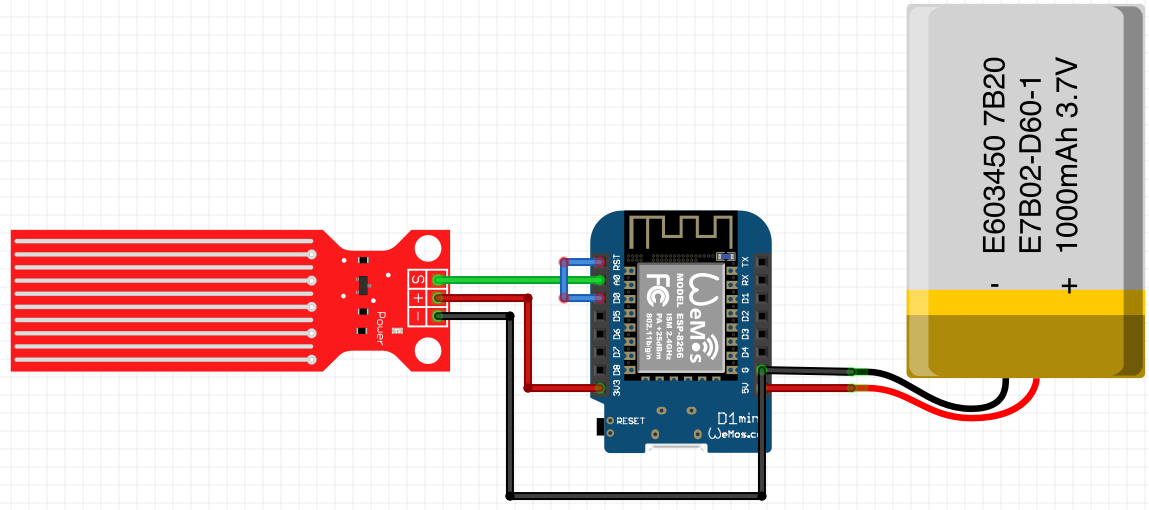
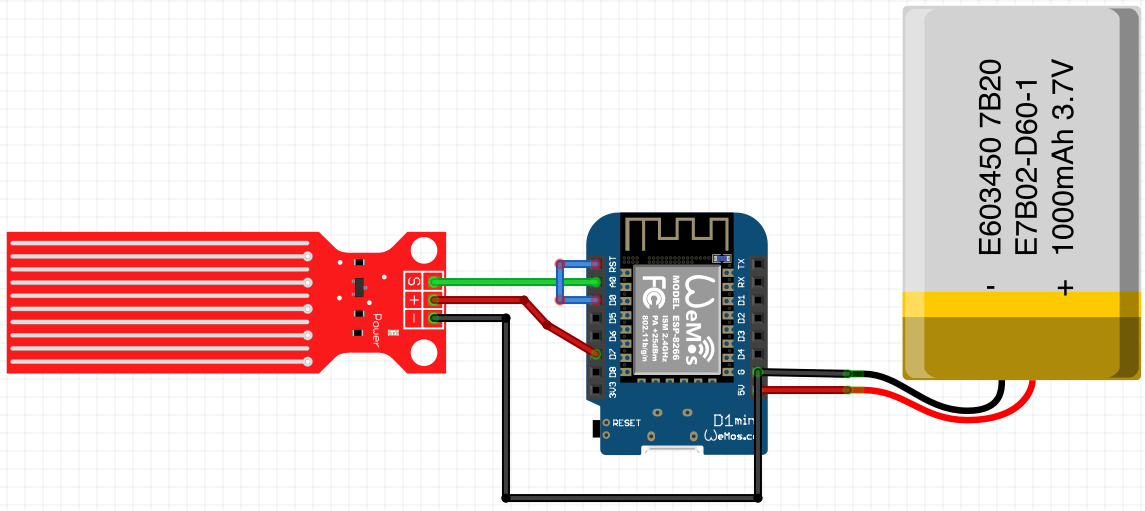
update documentation

diff --git a/src/main.cpp b/src/main.cpp
@@ -40,6 +40,25 @@ void tick()
     digitalWrite(LED_BUILTIN, !state);     // set pin to the opposite state
 }
 
+/**
+ * This is a function used to get the reading
+ * @param level
+ * @return
+ */
+int readSensor()
+{
+    // Turn the sensor ON
+	digitalWrite(sensorPower, HIGH);
+	delay(10);
+    // Perform the reading
+	sensorData = analogRead(sensorPin);
+
+    // Set to LOW to turn the sensor OFF
+	digitalWrite(sensorPower, LOW);
+
+  return sensorData;
+}
+
 void connectToWiFi()
 {
     int _try = 0;
@@ -94,25 +113,6 @@ void connectToHass()
     }
 }
 
-/**
- * This is a function used to get the reading
- * @param level
- * @return
- */
-int readSensor()
-{
-    // Turn the sensor ON
-	digitalWrite(sensorPower, HIGH);
-	delay(10);
-    // Perform the reading
-	sensorData = analogRead(sensorPin);
-
-    // Set to LOW to turn the sensor OFF
-	digitalWrite(sensorPower, LOW);
-
-  return sensorData;
-}
-
 void publishAlarmToHass(int waterLevel)
 {
     // publish the reading to Hass through MQTT
@@ -122,6 +122,7 @@ void publishAlarmToHass(int waterLevel)
         Serial.println("Alarm sent to Hass!");
     }
 }
+
 void setup()
 {
     if (DEBUG == true) {

diff --git a/README.md b/README.md
@@ -1,23 +1,46 @@
 # Water Leakage Sensor For Home Assistant (Or any MQTT based system)
 
-This repo accompanies the "Connected Weather Station" YouTube series. it contains the code, library, diagrams, and more information that I promised in the videos.
+About
+=====
+This article accompanies the "DIY Water Leakage Sensor" YouTube series. it contains the code, libraries, diagrams, 3D print files and more information that I promised in the videos: [**DIY Water Leakage Sensor For Home Assistant**](https://youtu.be/vL6TKYhjwQc)
 
-[**Video: Building an IoT Weather Station with Arduino, DHT11, and LCD Screen**](https://youtu.be/vL6TKYhjwQc)
-This episode shows you how to use the [DHT11](https://amzn.to/2Qs9fcV) temperature and humidity sensors with the [Arduino Uno](https://amzn.to/2RnHhPY) board to build a weather station that displays current temperature and humidity on an [LCD](https://amzn.to/2FzJdT6) screen.
+BUY VS BUILD
+========
+You can always go ahead and buy a ready to use a solution like this [CONNECTIFY Smart Water Leakage Sensor](https://www.amazon.ca/gp/product/B07TDCTQDN/ref=ppx_yo_dt_b_search_asin_title?ie=UTF8&psc=1) but these devices usually would only work with their respective apps, and some of them would require you to pay extra in order to receive push notifications. Now, this article and its video provide a step-by-step guide and links to everything you need to build the same device for **3x cheaper** than the cheapest option available.
 
+In addition to detecting water leakage and sending notifications. This device:
+* Goes to deep sleep and only wakes up every 30sec (configurable) to save energy
+* When water is detected, only then, the connection to WiFi is made, again, to save energy
+* Has a removable LiPo battery for easy of charge
+* Clever wiring of the water sensor to extend it's life expectancy (more details in the wiring section)
+* Sends notifications (and any type of data) to an MQTT topic, enlarging the possibilities of what you can do with the data
+
+In my case, I will be sending the notifications to my [Home Assistant](https://www.home-assistant.io/) setup in order to trigger a pre-defined automation that:
+* Pushes actionable notifications to our phone devices through [Home Assistant companion apps](https://companion.home-assistant.io/)
+* Converts notification alarm to a text (Alexa TTS capabilities) and play it through the Amazon Echo devices around the house
+* And just in case we managed to miss these, it turns the kitchen LED light to RED informing us of an emergency
+* Repeats every 5min until someone explicitly acknowledged the issue.
+
+The beauty of this is I can decide to trigger any type of notifications in the future such as playing an alarm sound or sending SMS notifications...
+
+So without further ado, let's start with a list of all hardware components, Apps and Libraries I've used in this project:
 
 ⚡ COMPONENTS AND SUPPLIES
---------------------------
+=====
 
-<img align="right" src="https://images-na.ssl-images-amazon.com/images/I/61sU-gLZncL._AC_SL1001_.jpg" style="max-width:100%;" height="400">
+<img align="right" src="https://images-na.ssl-images-amazon.com/images/I/418BpihzO8L.jpg" style="max-width:100%;" height="400">
 
-*   [WEMOS D1 R2 (ESP8266 ESP-12F)](https://www.amazon.com/IZOKEE-NodeMcu-Internet-Development-Compatible/dp/B076F52NQD/ref=sr_1_5?crid=1DNDEPDE0UUY8&dchild=1&keywords=esp12f&sprefix=esp12%2Caps%2C170&sr=8-5)
-*   [Water Level Sensor](https://www.amazon.com/Sensor-Module-Detection-Surface-Arduino%EF%BC%8810pcs%EF%BC%89/dp/B07THDH7Y4/ref=sr_1_7?dchild=1&keywords=6+Pack+Water+Level+Sensor%2C+Droplet+Depth+Detection+Sensor+for+Arduino&sr=8-7)
-*   [100pcs Double Sided PCB Board Kit](https://www.amazon.com/Smraza-Soldering-Electronic-Compatible-Prototype/dp/B07NM68FXK/ref=sr_1_2?dchild=1&keywords=smraza+100pcs+pcb+board&sr=8-2)
+*   [WEMOS D1 R2 (ESP8266 ESP-12F)](https://www.amazon.com/IZOKEE-NodeMcu-Internet-Development-Compatible/dp/B076F52NQD/)
+*   [Water Level Sensor](https://www.amazon.com/Sensor-Module-Detection-Surface-Arduino%EF%BC%8810pcs%EF%BC%89/dp/B07THDH7Y4/)
+*   [5 LiPo Batteries And Charger](https://www.amazon.ca/gp/product/B0795F139D)
+*   [Spade 2P Cable Lead Plug](https://www.amazon.ca/gp/product/B07YQY9V6F/)
+*   [Solder Kit](https://www.amazon.ca/-/fr/gp/product/B01N46T138/)
+*   [Helping Hands for soldering](https://www.amazon.ca/gp/product/B002PIA6Z4)
+*   [Screwdriver Set](https://www.amazon.ca/Precision-Screwdriver-Lifegoo-Eyeglasses-Electronic/dp/B07XCWT3W8/)
 *   [Breadboard](https://amzn.to/2Ei40tP) - [Jumper Wires](https://amzn.to/2Ehh2ru) - [Male to Male Jumper Wires + Tweezer](https://amzn.to/3jcf9eX)
 
 🖥 APPS
-------
+=====
 
 *   [VSCode](https://code.visualstudio.com/)
 *   [AWS CLI](https://docs.aws.amazon.com/cli/latest/userguide/cli-chap-install.html)
@@ -25,14 +48,15 @@ This episode shows you how to use the [DHT11](https://amzn.to/2Qs9fcV) temperatu
 *   [PlatformIO](https://platformio.org/)
 
 📦 Libraries
----------
+=====
 *   [ESP8266WiFi](https://arduino-esp8266.readthedocs.io/en/latest/esp8266wifi/readme.html)
 *   [PubSubClient](https://www.arduinolibraries.info/libraries/pub-sub-client)
+*   [Ticker](https://www.arduino.cc/reference/en/libraries/ticker/)
 
 
-Hardware Overview
------------------
-<img align="right" src="https://lastminuteengineers.com/wp-content/uploads/arduino/Water-Level-Sensor-Hardware-Overview.jpg" style="max-width:100%;" height="350">
+Hardware Overview: Water Sensor
+===============
+<img align="right" src="https://lastminuteengineers.com/wp-content/uploads/arduino/Water-Level-Sensor-Working.gif" style="max-width:100%;" height="350">
 
 This [Water Level Sensor Module](https://www.amazon.com/Sensor-Module-Detection-Surface-Arduino%EF%BC%8810pcs%EF%BC%89/dp/B07THDH7Y4/ref=sr_1_7?dchild=1&keywords=6+Pack+Water+Level+Sensor%2C+Droplet+Depth+Detection+Sensor+for+Arduino&sr=8-7) has a series of ten exposed copper traces, five of which are power traces and five are sense traces.
 These traces are interlaced so that there is one sense trace between every two power traces.
@@ -47,3 +71,44 @@ The resistance is inversely proportional to the height of the water:
 
 The sensor produces an output voltage according to the resistance, which by measuring we can determine the water level.
 
+Hardware Overview: WEMOS R1 D2
+===============
+<img align="right" src="https://images-na.ssl-images-amazon.com/images/I/61sU-gLZncL._AC_SL1001_.jpg" style="max-width:100%;" height="400">
+
+I've decided to use the [WEMOS R1 D2](https://www.amazon.com/Sensor-Module-Detection-Surface-Arduino%EF%BC%8810pcs%EF%BC%89/dp/B07THDH7Y4/ref=sr_1_7?dchild=1&keywords=6+Pack+Water+Level+Sensor%2C+Droplet+Depth+Detection+Sensor+for+Arduino&sr=8-7) microchip for this project because it has a small size that saves space and can easily fit in a printable 3D case, but also because of a few reasons:
+* It has an Analog pin
+* It has WiFi capabilities
+* It supports OTA online: Updating code Over-The-Air
+* 4MB of memory which more than enough for our needs
+* And because it's compatible with Arduino IDE, making the programming easy
+
+THE WIRING
+==========
+The wiring is pretty straightforward. Please follow the diagram bellow. Also, here are some notes that might help you figure it out:
+
+<img align="center" src="https://github.com/MecaHumArduino/wemos-water-leak-sensor/blob/main/doc/the_wiring.png?raw=true" style="max-width:100%;" height="500">
+
+
+* **Blue** wire connecting RST and D0: Required to allow the WEMOS board to go to sleep.
+* **Red** wire connecting water sensor to D7: You might be wondering why the water sensor is not directly connected to the 3v3 pin. Well, one commonly known issue with these sensors is their short lifespan when exposed to a moist environment. Having power applied to the probe constantly speeds the rate of corrosion significantly.
+To overcome this, I recommend that you do not power the sensor constantly, but power it only when you take the readings.
+An easy way to accomplish this is to connect the VCC pin to a digital pin of an Arduino and set it to HIGH or LOW as per requirement. So, we'll connect the VCC pin to the digital pin #7 of an Arduino.
+
+THE CODE
+========
+
+The code within `main.cpp` file is well documented, but I'll try to explain the concepts and ideas behind the code in this section.
+
+The sketch begins with the creation of a few objects we'll need along the way: `Ticker` that calls repeating actions and which we will use to put the board to sleep and then wake up. `WiFiClient` that we use to connect to Wifi and `PubSubClient` that we use to send data through MQTT
+
+```cpp
+Ticker ticker;
+WiFiClient espClient;
+PubSubClient client(espClient);
+```
+
+Then we declare a few variables like the Arduino pins for the sensor reading and power, as long as the sleep duration and number of tries we aim to do while connecting to WiFi because we want to avoid draining the battery trying to connect to WiFi indefinitely.
+#define sensorPower D7 // Power pin
+#define sensorPin A0 // Analog Sensor pins
+#define durationSleep 30 // seconds
+#define NB_TRYWIFI 20 // WiFi connection retries
